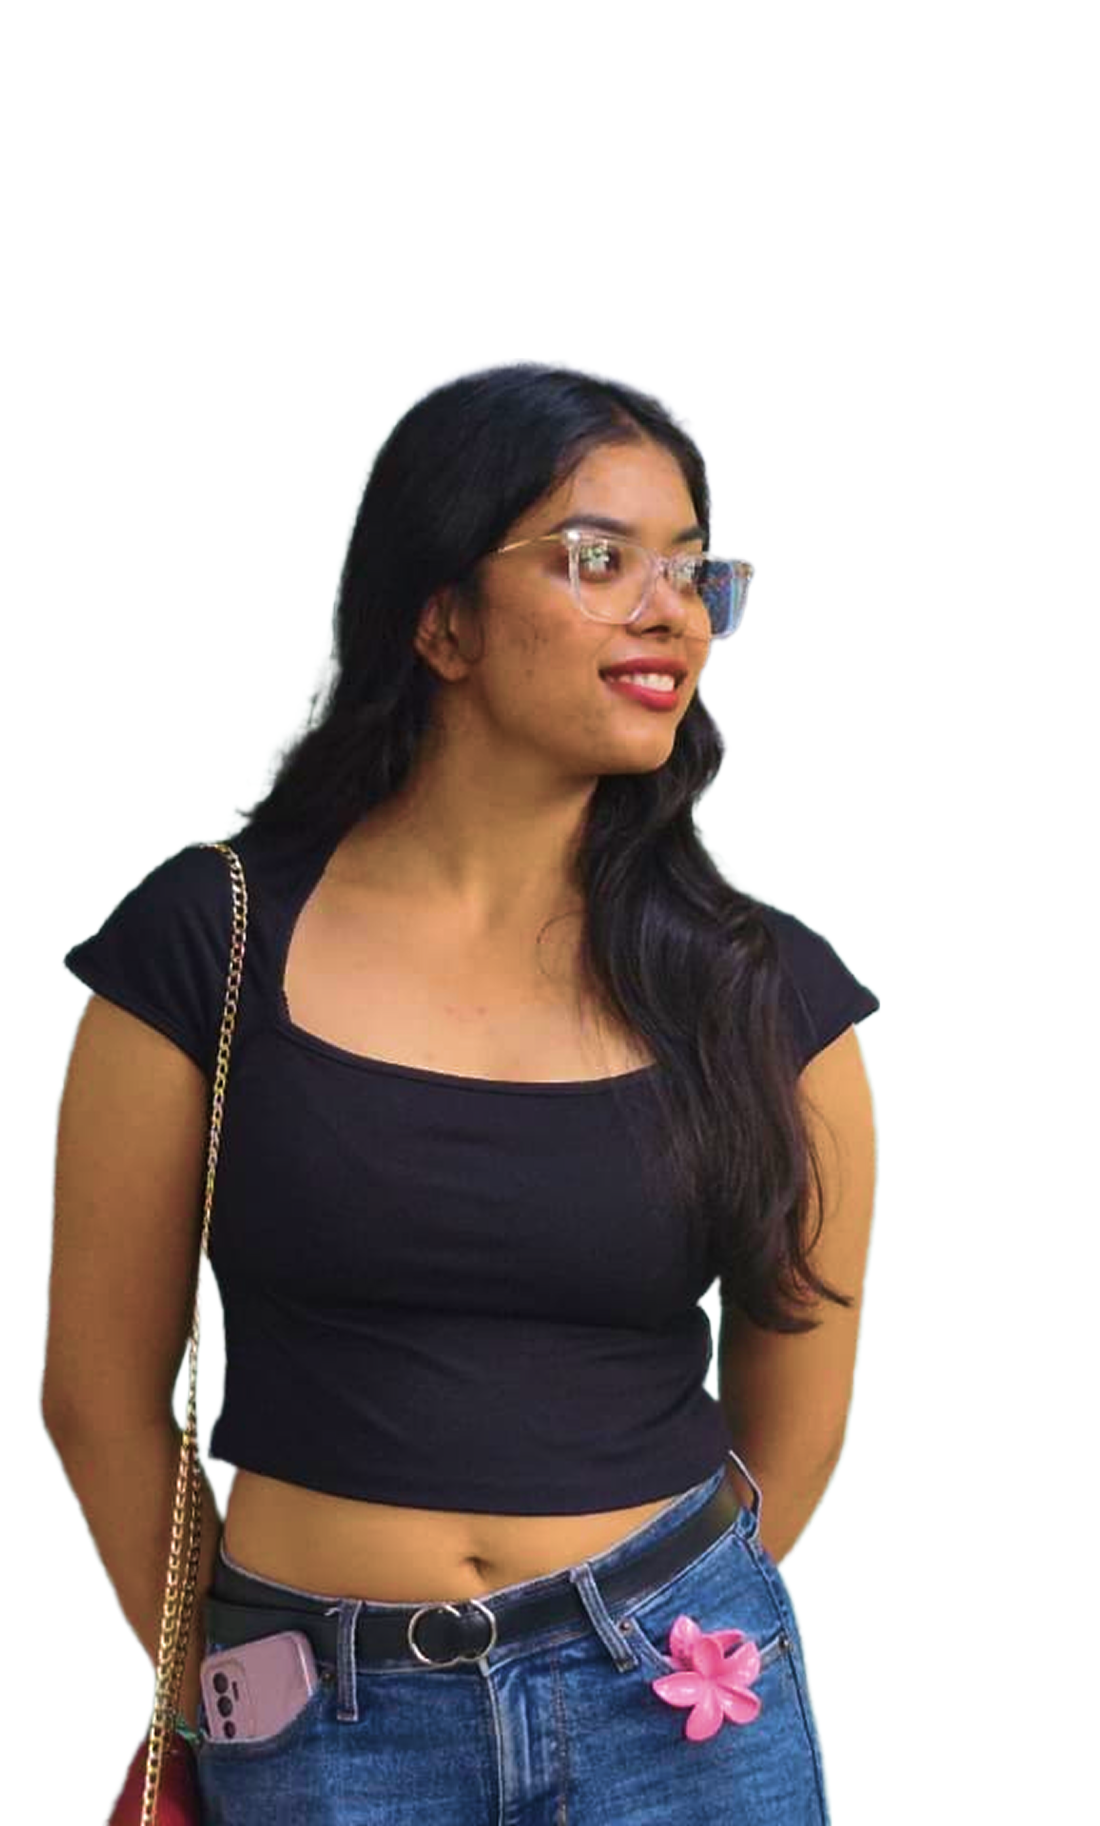
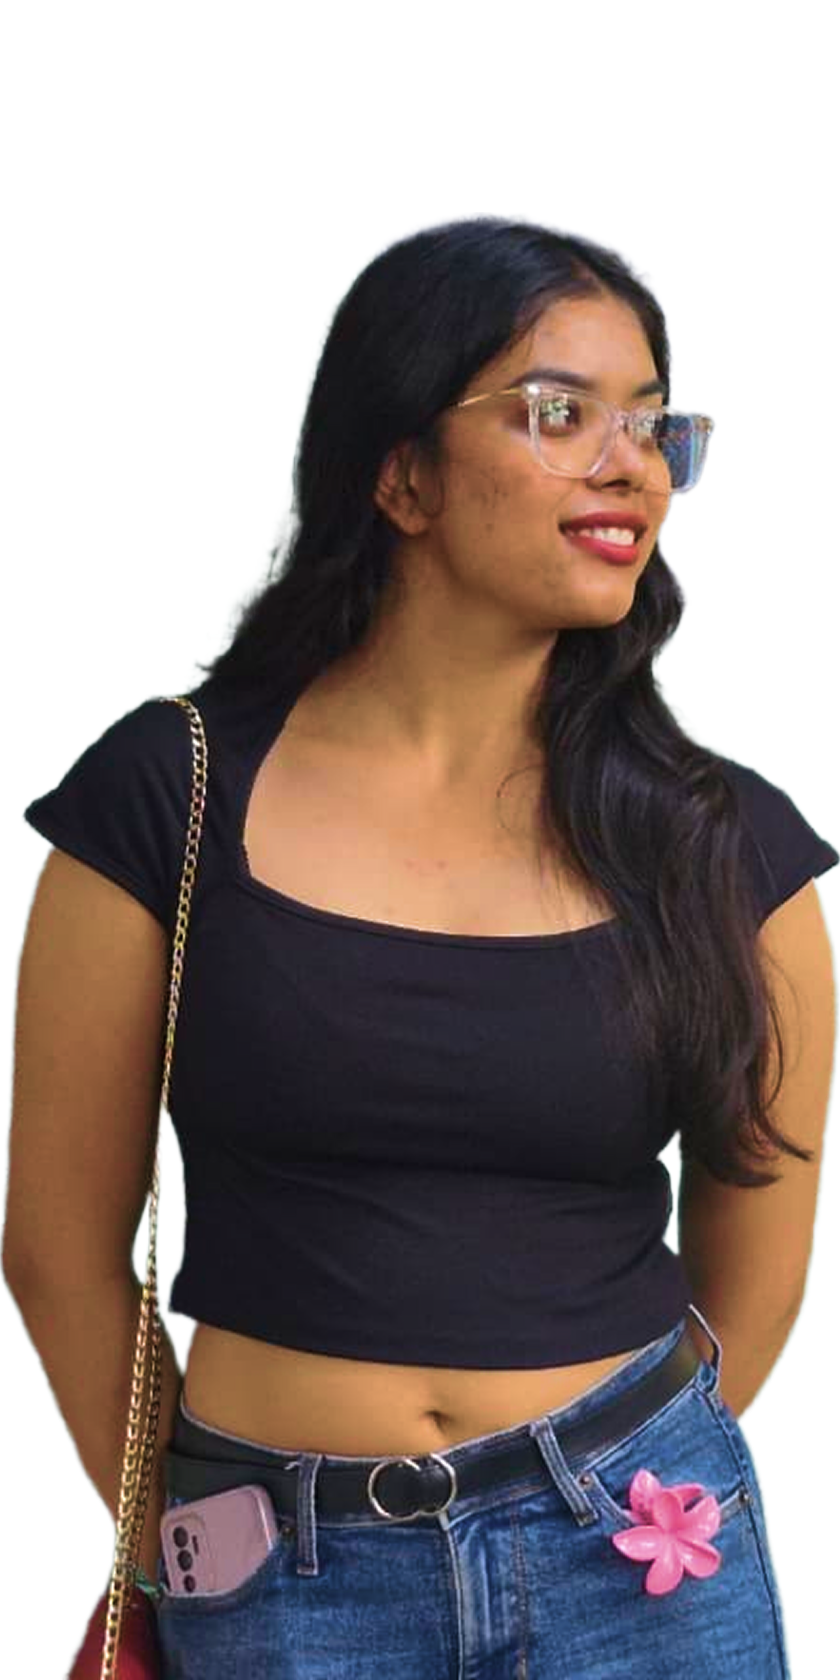
Responsiveness of Hero

diff --git a/src/sections/hero.tsx b/src/sections/hero.tsx
@@ -3,46 +3,53 @@ import Button from "../components/ui/button";
 
 export default function Hero() {
   return (
-    <section className="relative border-b flex items-center gap-8 min-h-screen">
+    <section className="relative border-b flex items-center justify-center">
       <div className="absolute inset-0 -z-1">
         <div className="absolute inset-0 w-full h-full bg-linear-to-r from-background via-background to-transparent opacity-50" />
+
         <img
           src="/hero-background-image.png"
           alt=""
           className="w-full h-full object-cover"
         />
       </div>
-      <div className="flex flex-col gap-8 flex-1 px-12 py-16">
-        <h1 className="text-9xl xl:text-[11.5rem] leading-[86%] grid gap-0">
-          <span>Saranya</span>
-          <span>Shukla</span>
-        </h1>
 
-        <hr className="w-30" />
+      <div className="relative flex items-center lg:gap-8 w-full max-w-400 h-screen">
+        <div className="flex flex-col gap-8 flex-1 px-6 sm:px-12 py-20">
+          <h1 className="text-7xl sm:text-9xl xl:text-[11.5rem] leading-[86%] grid gap-0">
+            <span>Saranya</span>
+            <span>Shukla</span>
+          </h1>
 
-        <p className="uppercase tracking-[20%] font-semibold text-2xl">
-          python software engineer
-        </p>
+          <div className="h-0.5 w-15 sm:w-30 rounded bg-foreground" />
 
-        <p className="text-2xl text-muted-foreground max-w-106 leading-relaxed">
-          Python Developer building AI-powered applications, backend APIs, and
-          automation tools.
-        </p>
+          <div className="space-y-3">
+            <p className="uppercase tracking-[20%] font-semibold text-lg lg:text-2xl">
+              python software engineer
+            </p>
 
-        <Button className="group w-fit">
-          <span className="py-2 border-b border-foreground">
-            Explore my work
-          </span>
+            <p className="text-lg lg:text-2xl text-secondary-foreground max-w-106 leading-relaxed">
+              Python Developer building AI-powered applications, backend APIs,
+              and automation tools.
+            </p>
+          </div>
 
-          <ArrowRight className="group-hover:translate-x-1.5 transition ease-out duration-300" />
-        </Button>
-      </div>
-      <div className="hero-image flex-1 max-w-137.5 h-full">
-        <img
-          src="/hero-image.png"
-          alt="Saranya's Image"
-          className="w-full h-full object-cover"
-        />
+          <Button className="group w-fit">
+            <span className="py-2 border-b-2 border-foreground!">
+              Explore my work
+            </span>
+
+            <ArrowRight className="group-hover:translate-x-1.5 transition ease-out duration-300" />
+          </Button>
+        </div>
+
+        <div className="absolute max-md:opacity-50 left-auto bottom-0 right-0 sm:right-6 lg:right-16 -z-1 h-full">
+          <img
+            src="/hero-image.png"
+            alt="Saranya's Image"
+            className="w-full h-full object-cover"
+          />
+        </div>
       </div>
     </section>
   );

diff --git a/src/components/ui/project.tsx b/src/components/ui/project.tsx
@@ -17,11 +17,19 @@ export default function Project({
 
   return (
     <div
-      className="flex gap-8 py-8 border-t"
+      className="relative flex gap-8 py-8 border-t last:border-b hover:text-primary-foreground transition-colors duration-300 ease-out"
       onMouseEnter={() => setHovered(true)}
       onMouseLeave={() => setHovered(false)}
     >
-      <span className="text-muted-foreground mt-1">{"0" + (index + 1)}</span>
+      <div
+        className={`
+        absolute inset-0 -z-1 bg-primary
+        origin-center ${hovered ? "scale-y-100" : "scale-y-0"}
+        transition-all ease-out duration-200
+      `}
+      />
+
+      <span className="mt-1 ml-4">{"0" + (index + 1)}</span>
 
       <article className="flex flex-col flex-1 border-l px-8 py-4">
         <div className="flex items-center justify-between flex-1">
@@ -29,26 +37,31 @@ export default function Project({
 
           <div className="flex items-center gap-8">
             <Button href={project.liveLink} className="group">
-              <span className="py-3 link-underline">Live</span>
-              <ArrowUpRight className="group-group-hover:translate-x-1.5 group-hover:rotate-45 transition ease-out duration-300" />
+              <span className="py-3 link-underline primary-underline">
+                view live
+              </span>
+              <ArrowUpRight className="group-hover:translate-x-1.5 group-hover:rotate-45 transition ease-out duration-300" />
             </Button>
 
             <Button href={project.githubLink} className="group">
-              <span className="py-3 link-underline">Github</span>
+              <span className="py-3 link-underline primary-underline">
+                Github
+              </span>
               <SiGithub className="group-hover:rotate-360 transition ease-out duration-600" />
             </Button>
           </div>
         </div>
 
-        <p
-          id="description"
+        <div
           className={`
-            leading-relaxed text-muted-foreground max-w-3xl transition-all duration-300 ease-out overflow-y-hidden
-            ${hovered ? "opacity-100 mt-8 max-h-125" : "opacity-0 max-h-0"}
+            transition-all duration-300 ease-out overflow-y-hidden
+            ${hovered ? "opacity-100 mt-8 scale-y-100" : "opacity-0 scale-y-0"}
           `}
         >
-          {project.description}
-        </p>
+          <p id="description" className="leading-relaxed opacity-70 max-w-3xl">
+            {project.description}
+          </p>
+        </div>
       </article>
     </div>
   );

diff --git a/src/components/layout/header.tsx b/src/components/layout/header.tsx
@@ -16,7 +16,7 @@ export default function Header() {
       const SCROLL_TRIGGER_VALUE = 60;
       const currentScroll = window.scrollY;
       const isScrollingDown =
-        currentScroll > SCROLL_TRIGGER_VALUE &&
+        currentScroll > 2 * SCROLL_TRIGGER_VALUE &&
         currentScroll > prevScrollRef.current;
 
       if (currentScroll > SCROLL_TRIGGER_VALUE) setTop(false);
@@ -44,13 +44,13 @@ export default function Header() {
     >
       <div
         className={`
-          flex items-center justify-between gap-32
+          flex items-center justify-between gap-32 w-full max-w-400
           transition-all ease-out duration-300
           rounded-full border
           ${
             top
-              ? "bg-transparent w-full px-12 py-6 border-transparent!"
-              : "w-fit bg-background/20 backdrop-blur-md px-3 py-3 mt-3 border-border!"
+              ? "bg-transparent px-12 py-6 border-transparent!"
+              : "bg-background/20 backdrop-blur-md px-3 py-3 mt-3 mx-3 border-border!"
           }
         `}
       >
@@ -64,9 +64,9 @@ export default function Header() {
           SS
         </a>
 
-        <div className={`flex items-center ${top ? "gap-32" : "gap-16"}`}>
+        <div className="flex items-center gap-32">
           <nav>
-            <ul className={`flex items-center ${top ? "gap-16" : "gap-8"}`}>
+            <ul className="flex items-center gap-16">
               {links.map((link) => (
                 <li key={link.label}>
                   <a
@@ -80,8 +80,12 @@ export default function Header() {
             </ul>
           </nav>
 
-          <Button variant="header" className="group">
+          <Button
+            variant="header"
+            className="group hover:bg-primary hover:text-primary-foreground hover:ring-primary"
+          >
             <span>resume</span>
+
             <ArrowUpRight className="group-hover:translate-x-1.5 group-hover:rotate-45 transition ease-out duration-300" />
           </Button>
         </div>

diff --git a/src/styles/globals.css b/src/styles/globals.css
@@ -4,11 +4,16 @@
 
 :root {
   --background: #f9f7f5;
-  --foreground: #171717;
+  --foreground: var(--color-neutral-900);
 
-  --muted-foreground: #5b5a5a;
+  --primary: #a6533c;
+  --primary-foreground: #fafafa;
 
-  --border: #9f9d9c;
+  --secondary-foreground: var(--color-neutral-800);
+
+  --muted-foreground: var(--color-neutral-700);
+
+  --border: var(--color-neutral-700);
 
   --font-heading:
     "Noto Serif Display", ui-serif, Georgia, Cambria, "Times New Roman", Times,
@@ -19,6 +24,11 @@
 @theme inline {
   --color-background: var(--background);
   --color-foreground: var(--foreground);
+
+  --color-primary: var(--primary);
+  --color-primary-foreground: var(--primary-foreground);
+
+  --color-secondary-foreground: var(--secondary-foreground);
 
   --color-muted-foreground: var(--muted-foreground);
 

diff --git a/src/styles/components.css b/src/styles/components.css
@@ -9,6 +9,10 @@
     content: "";
     @apply absolute top-full left-0 w-0 h-0.5 bg-foreground rounded transition-all ease-out duration-300;
   }
+
+  &.primary-underline::after {
+    @apply bg-primary-foreground;
+  }
 }
 
 .section-sub-heading {
